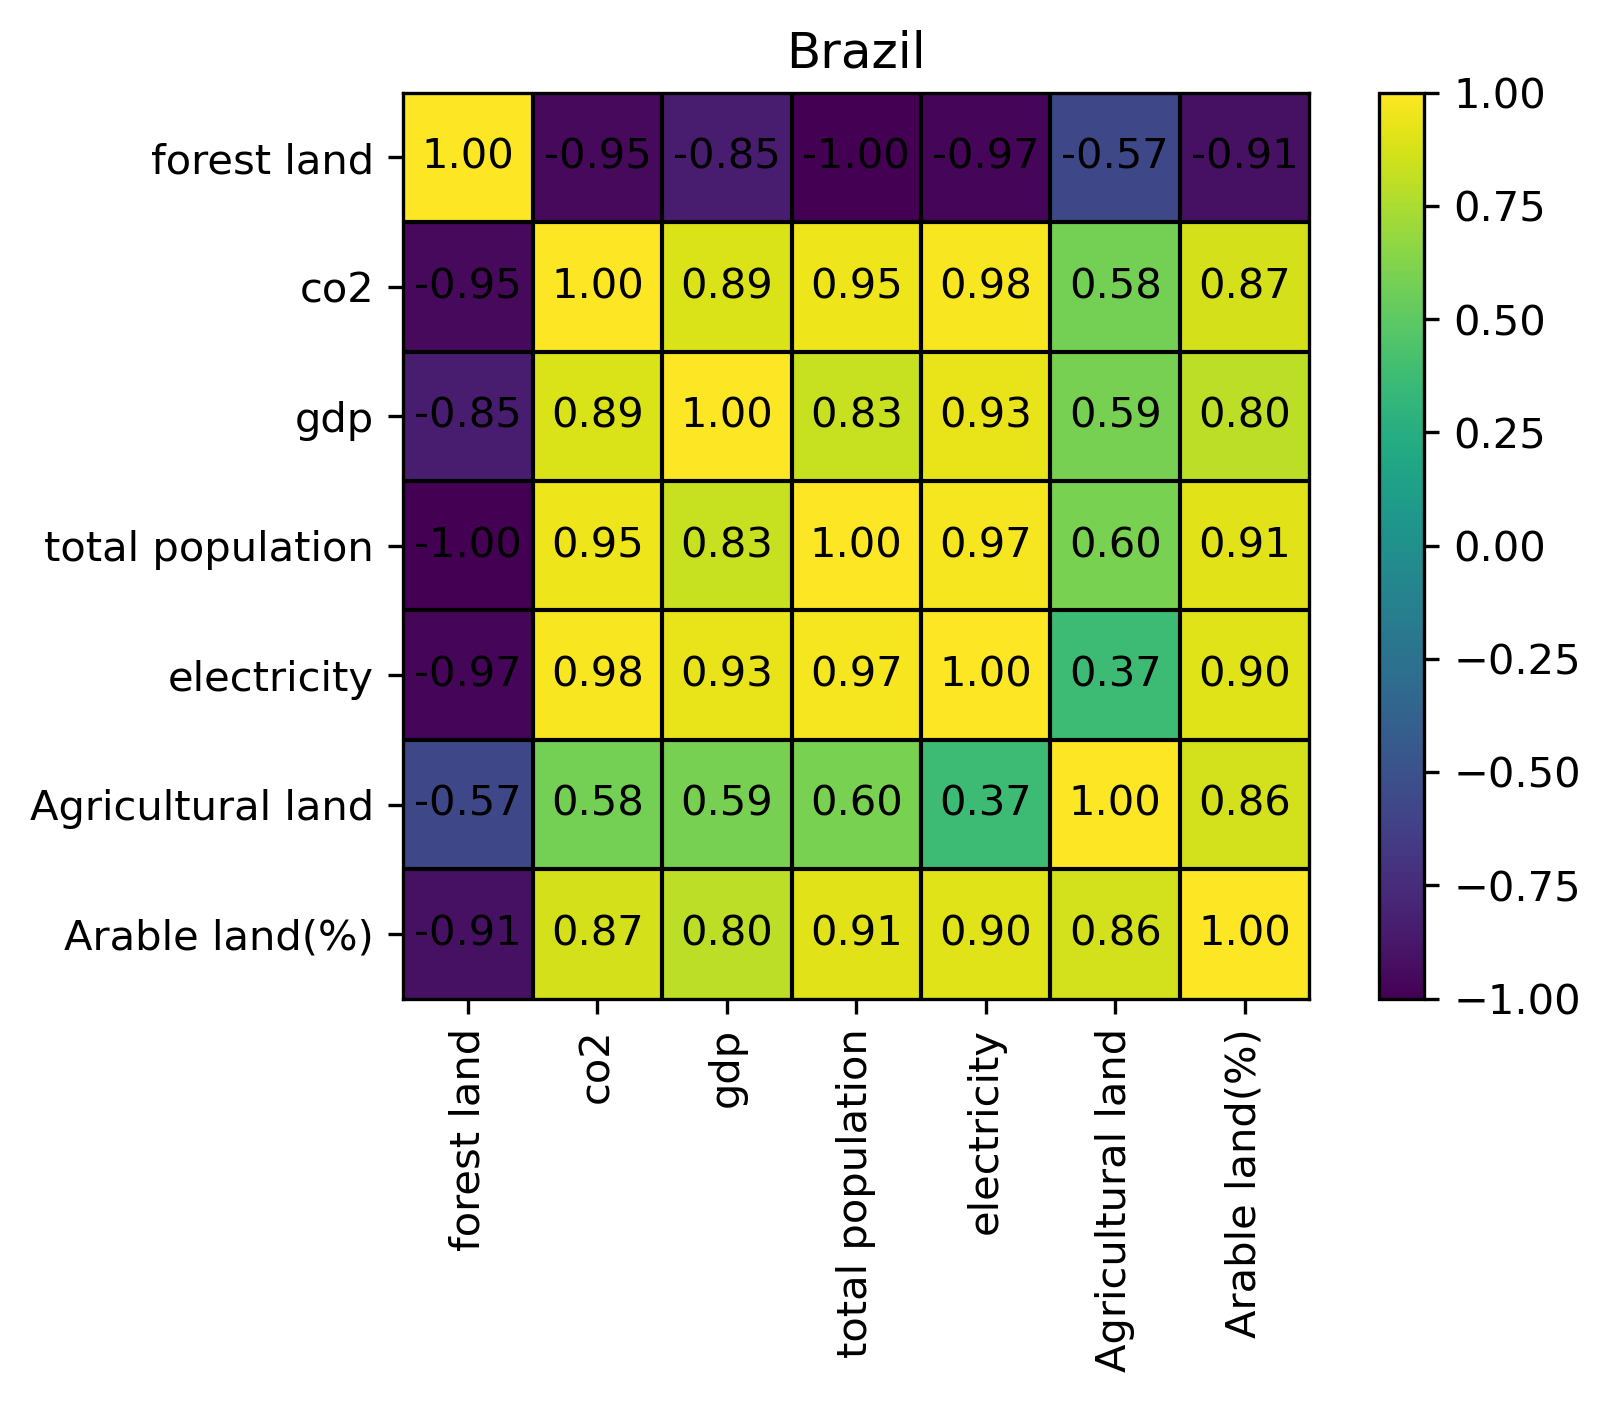
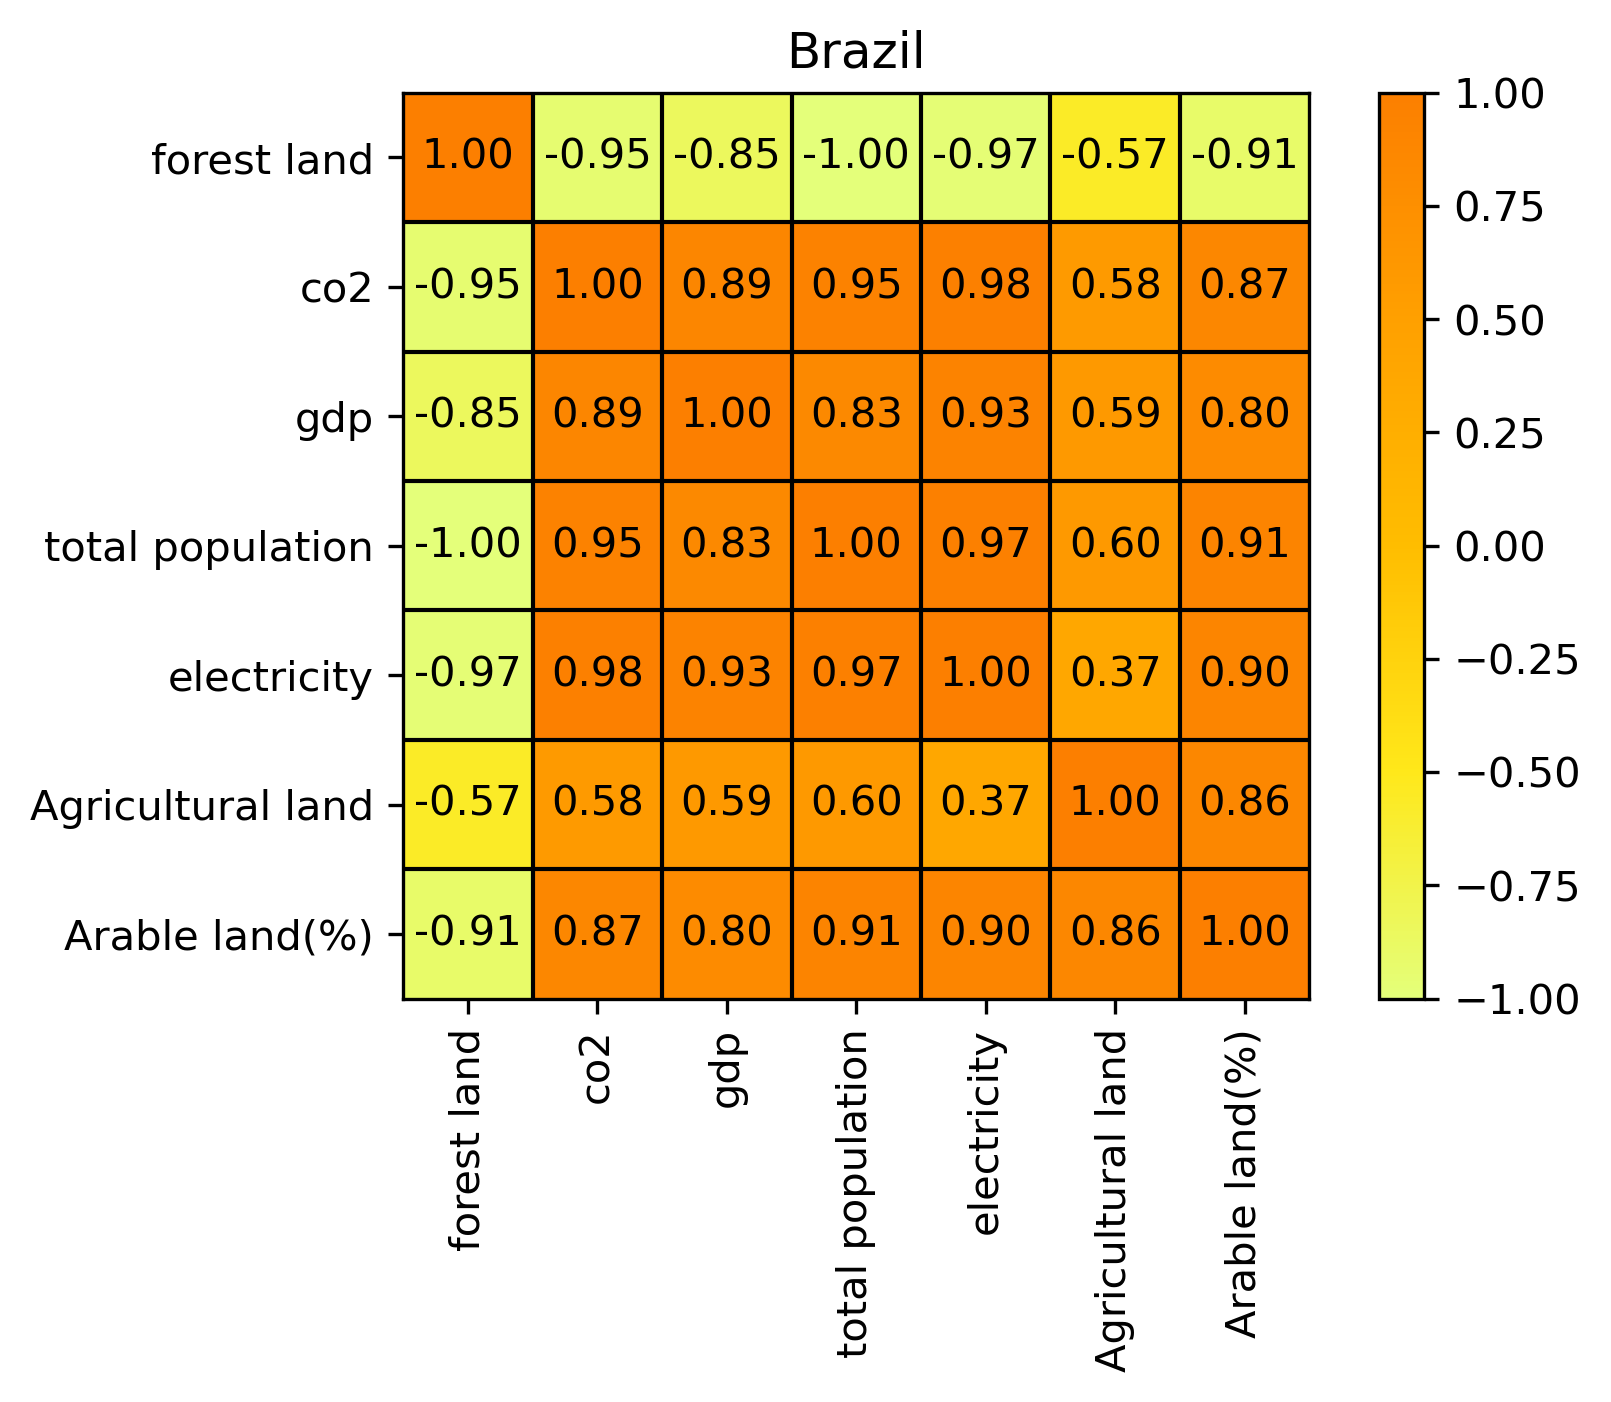
add second stat function and fix heatmap color so text in black can be visiable easily

diff --git a/assigment2.py b/assigment2.py
@@ -8,6 +8,7 @@ Created on Wed Nov 29 20:51:59 2023
 import numpy as np
 import pandas as pd
 import matplotlib.pyplot as plt
+import scipy.stats as sp
 
 
 def read_world_bank_csv(filename):
@@ -93,7 +94,7 @@ def normalise_data(df_to_normal):
 def print_statics_summary(title, df_for_stat, country="All"):
     """
     Shoe statics summary of dataset like describe function output, kurtosis,
-    skew and median
+    skew and median.
 
     Parameters
     ----------
@@ -111,7 +112,7 @@ def print_statics_summary(title, df_for_stat, country="All"):
     """
     # check if country is passed in parameter, then filter the supplied
     # dataframe else process all country
-    if (country != "All"):
+    if country != "All":
         df_for_stat = df_for_stat[country]
         title = title+"(" + country + ")"
     print("\n====",  (title+" ").ljust(65, "="))
@@ -122,8 +123,8 @@ def print_statics_summary(title, df_for_stat, country="All"):
     # add three other statics method kurtosis
     # to see the tailedness vs heavy tails
     # and skew to see skewness(Negative, Positive , Zero) and median
-    df_describe.loc["kurtosis"] = df_for_stat.kurtosis()
-    df_describe.loc["skew"] = df_for_stat.skew()
+    df_describe.loc["kurtosis"] = sp.kurtosis(df_for_stat)
+    df_describe.loc["skew"] = sp.skew(df_for_stat)
     df_describe.loc["median"] = df_for_stat.median()
 
     # print summary
@@ -158,7 +159,7 @@ def plot_and_save_line_chart(df_chart, title, xlabel, ylabel, fig_name):
     plot = df_chart.plot(title=title)
     plot.set_xlabel(xlabel)
     plot.set_ylabel(ylabel)
-    
+
     # get figure object from pandas plot and save the image on disk
     fig = plot.get_figure()
     fig.savefig(fig_name, dpi=300, bbox_inches="tight")
@@ -188,10 +189,43 @@ def plot_and_save_bar_chart(df_chart, title, xlabel, ylabel, fig_name):
     """
     # select specific years only and plot the bar chart
     plot = df_chart.loc[:, [1990, 2000, 2010, 2020]].plot.bar(title=title,
-                                                                      rot=45)
+                                                              rot=45)
     plot.set_xlabel(xlabel)
     plot.set_ylabel(ylabel)
-    
+
+    # get figure object from pandas plot and save the image on disk
+    fig = plot.get_figure()
+    fig.savefig(fig_name, dpi=300, bbox_inches="tight")
+
+
+def plot_and_save_stack_bar_chart(df_chart, title, xlabel, ylabel, fig_name):
+    """
+    Create bar chart using df_chart dataframe and save the figure on disk.
+
+    Parameters
+    ----------
+    df_chart : pandas.DataFrame
+        create bar chart for df_chart.
+    title : string
+        title of the chart.
+    xlabel : string
+        set x label.
+    ylabel : string
+        set y label.
+    fig_name : string
+        chart image name.
+
+    Returns
+    -------
+    None.
+
+    """
+    # select specific years only and plot the bar chart
+    plot = df_chart.loc[:, [1990, 2000, 2010, 2020]]\
+        .plot.bar(title=title, stacked=True, rot=45,)
+    plot.set_xlabel(xlabel)
+    plot.set_ylabel(ylabel)
+
     # get figure object from pandas plot and save the image on disk
     fig = plot.get_figure()
     fig.savefig(fig_name, dpi=300, bbox_inches="tight")
@@ -199,7 +233,7 @@ def plot_and_save_bar_chart(df_chart, title, xlabel, ylabel, fig_name):
 
 def plot_and_save_heatmap(country, dict_label_dataset):
     """
-    Create heatmap for country with differnt paramters 
+    Create heatmap for country with differnt paramters
     and display it's correlation.
 
     Parameters
@@ -207,7 +241,7 @@ def plot_and_save_heatmap(country, dict_label_dataset):
     country : string
         filter dataset with country.
     dict_label_dataset : dict
-        dictionary list of the key pair, where key is parameter name 
+        dictionary list of the key pair, where key is parameter name
         and values is dataset.
 
     Returns
@@ -217,24 +251,24 @@ def plot_and_save_heatmap(country, dict_label_dataset):
     """
     # create blank dataframe
     result = pd.DataFrame()
-    
+
     # loop through the all paramters in dictionary and prepare dataframe
     for lbl in dict_label_dataset:
         result[lbl] = dict_label_dataset[lbl][[
             country]].values.flatten().tolist()
-    
+
     # find the correlation between paramters
     corr = result.corr().round(2)
-    
+
     # create heatmap
     plt.figure()
-    plt.imshow(corr, vmin=-1, vmax=1)
+    plt.imshow(corr, vmin=-1, vmax=1, cmap="Wistia")
     plt.xticks(range(len(corr.columns)), corr.columns, rotation=90)
     plt.yticks(range(len(corr.columns)), corr.columns)
-    
+
     cbar = plt.colorbar()
     # set specific tick positions
-    cbar.set_ticks(np.arange(1, -1.25, -0.25))  
+    cbar.set_ticks(np.arange(1, -1.25, -0.25))
 
     # print boxes
     for i in range(0, len(dict_label_dataset)-1):
@@ -243,9 +277,11 @@ def plot_and_save_heatmap(country, dict_label_dataset):
 
     # display correlation values in boxes
     for (i, j), corr_val in np.ndenumerate(corr):
-        plt.text(j, i, f'{corr_val:0.2f}', ha='center', va='center')
+        text = plt.text(j, i, f'{corr_val:0.2f}', ha='center', va='center',
+                        color="Black")
+
     plt.title(country)
-    
+
     # save file in disk
     plt.savefig(country+".png", dpi=300, bbox_inches="tight")
 
@@ -265,7 +301,7 @@ co2_data_yw, co2_data_cw = \
 total_population_data_yw, total_population_data_cw = \
     read_world_bank_csv("API_SP.POP.TOTL_DS2_en_csv_v2_6011311.csv")
 
-ele_data_yw, ele_population_data_cw = \
+ele_data_yw, ele_data_cw = \
     read_world_bank_csv("API_EG.USE.ELEC.KH.PC_DS2_en_csv_v2_5995551.csv")
 
 agri_lnd_yw, agri_lnd_cw = \
@@ -275,20 +311,25 @@ arab_lnd_yw, arab_lnd_cw = \
     read_world_bank_csv("API_AG.LND.ARBL.ZS_DS2_en_csv_v2_5995308.csv")
 
 # print statics summary
-print_statics_summary("Forest land statics", frst_lnd_data_yw, "Argentina")
+# print_statics_summary("Forest land statics", frst_lnd_data_yw, "Argentina")
 print_statics_summary("CO2", co2_data_yw)
 
 # plot charts bar chart for Forest area and CO2emissions
 plot_and_save_bar_chart(frst_lnd_data_cw, "Forest area (% of land area)",
                         "", "%", "forest.png")
 plot_and_save_bar_chart(co2_data_cw, "CO2 emissions (kt)", "", "kt", "co2.png")
+plot_and_save_stack_bar_chart(ele_data_cw,
+                              "11Electric power consumption (kWh per capital)",
+                              "Year", "kWh", "electric_bar.png")
 
 # plot line charts for Electric power consumption and Population
-plot_and_save_line_chart(ele_data_yw,
-                         "Electric power consumption (kWh per capita)", "Year",
-                         "kWh", "electric.png")
-plot_and_save_line_chart(ele_data_yw, "Population, total", "Year", "",
-                         "population.png")
+plot_and_save_line_chart(ele_data_yw.loc[1995:2015, :],
+                         "Electric power consumption (kWh per capital)",
+                         "Year", "kWh", "electric.png")
+plot_and_save_line_chart(total_population_data_yw, "Population, total", "Year",
+                         "", "population.png")
+plot_and_save_line_chart(gdp_data_yw, "GDP (current US$)", "Year", "Trillion",
+                         "gdp.png")
 
 # prepare heat map dictonary label with it's dataframe object
 dict_heat_map = {
@@ -302,9 +343,13 @@ dict_heat_map = {
 }
 
 # plot heat map for differnt countries
-plot_and_save_heatmap("Argentina", dict_heat_map)
 plot_and_save_heatmap("Brazil", dict_heat_map)
+plot_and_save_heatmap("Indonesia", dict_heat_map)
+plot_and_save_heatmap("Russian Federation", dict_heat_map)
+plot_and_save_heatmap("Argentina", dict_heat_map)
+plot_and_save_heatmap("Paraguay", dict_heat_map)
+plot_and_save_heatmap("Bolivia", dict_heat_map)
 plot_and_save_heatmap("Nigeria", dict_heat_map)
 
-#show all plots
+# show all plots
 plt.show()
